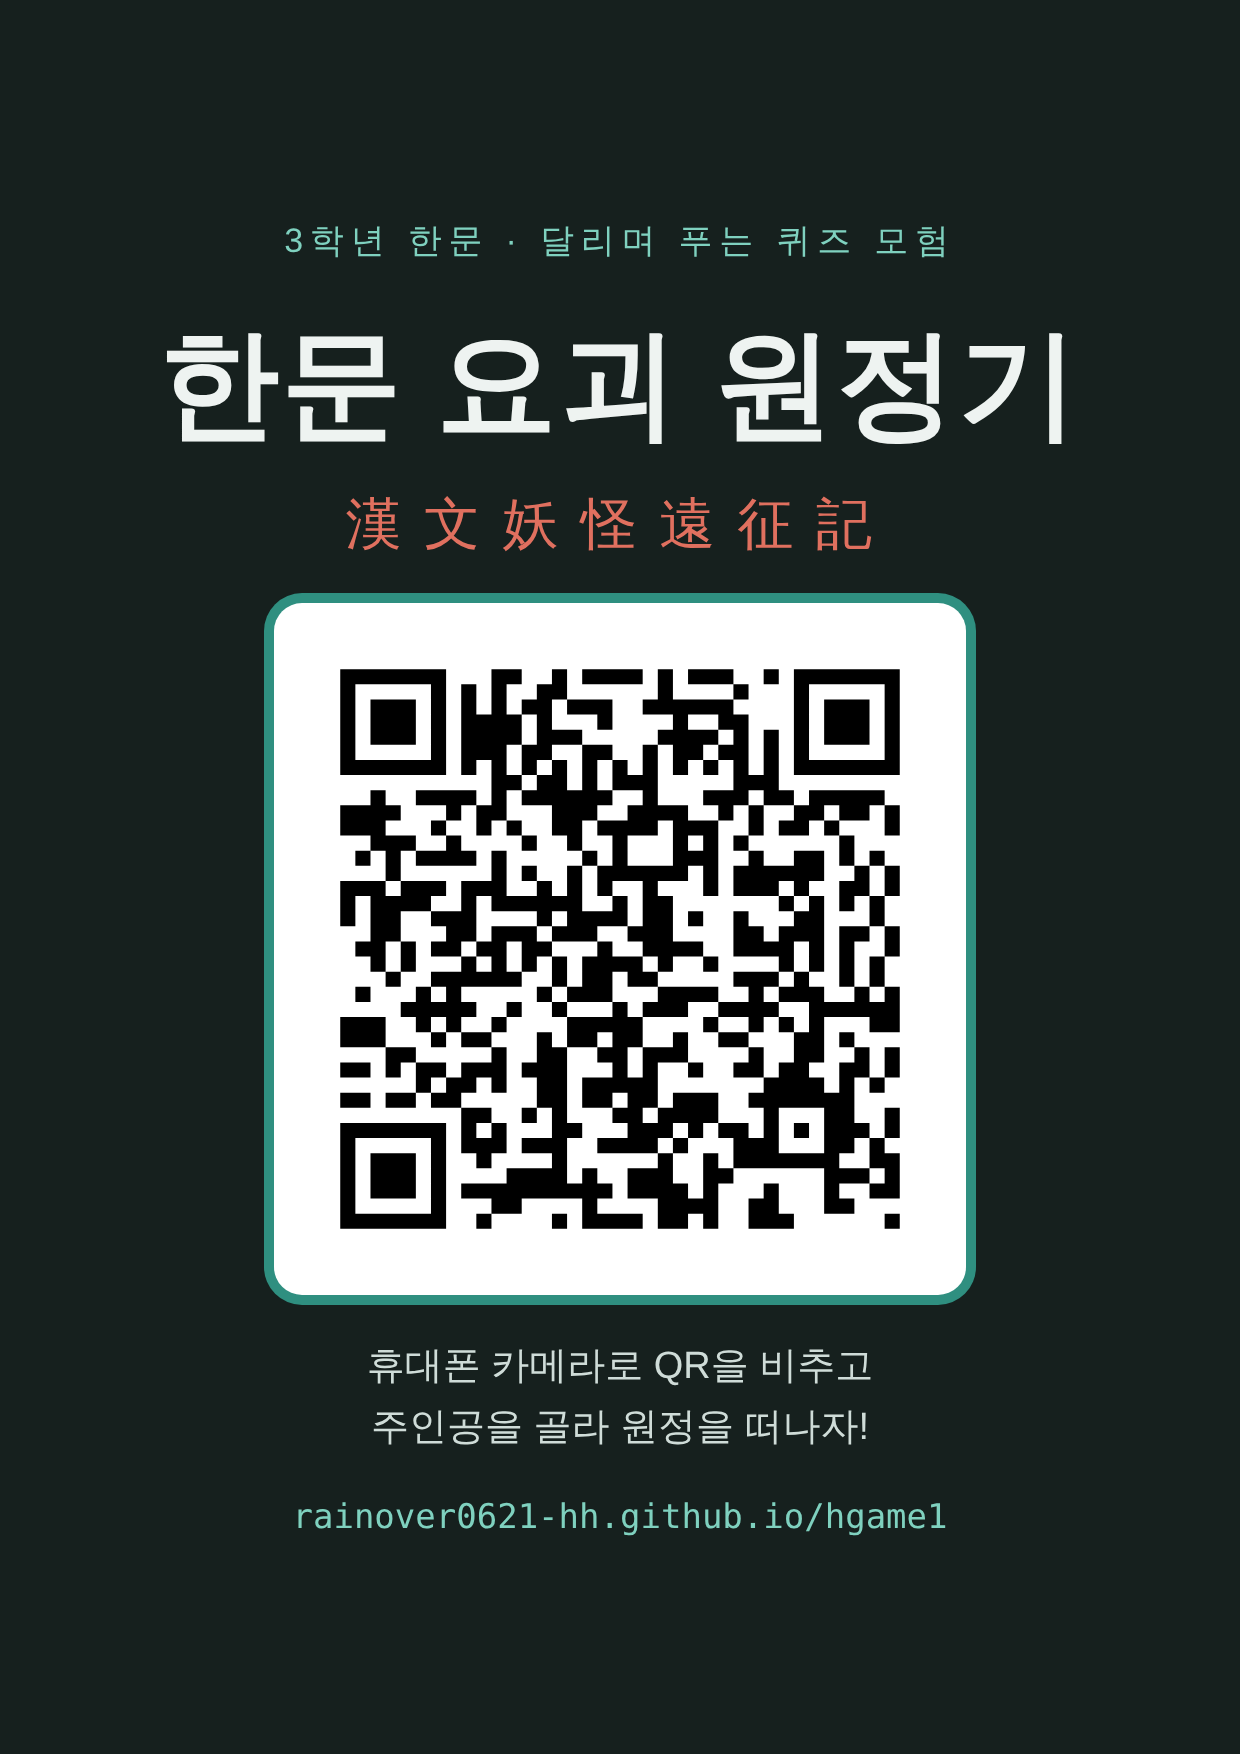
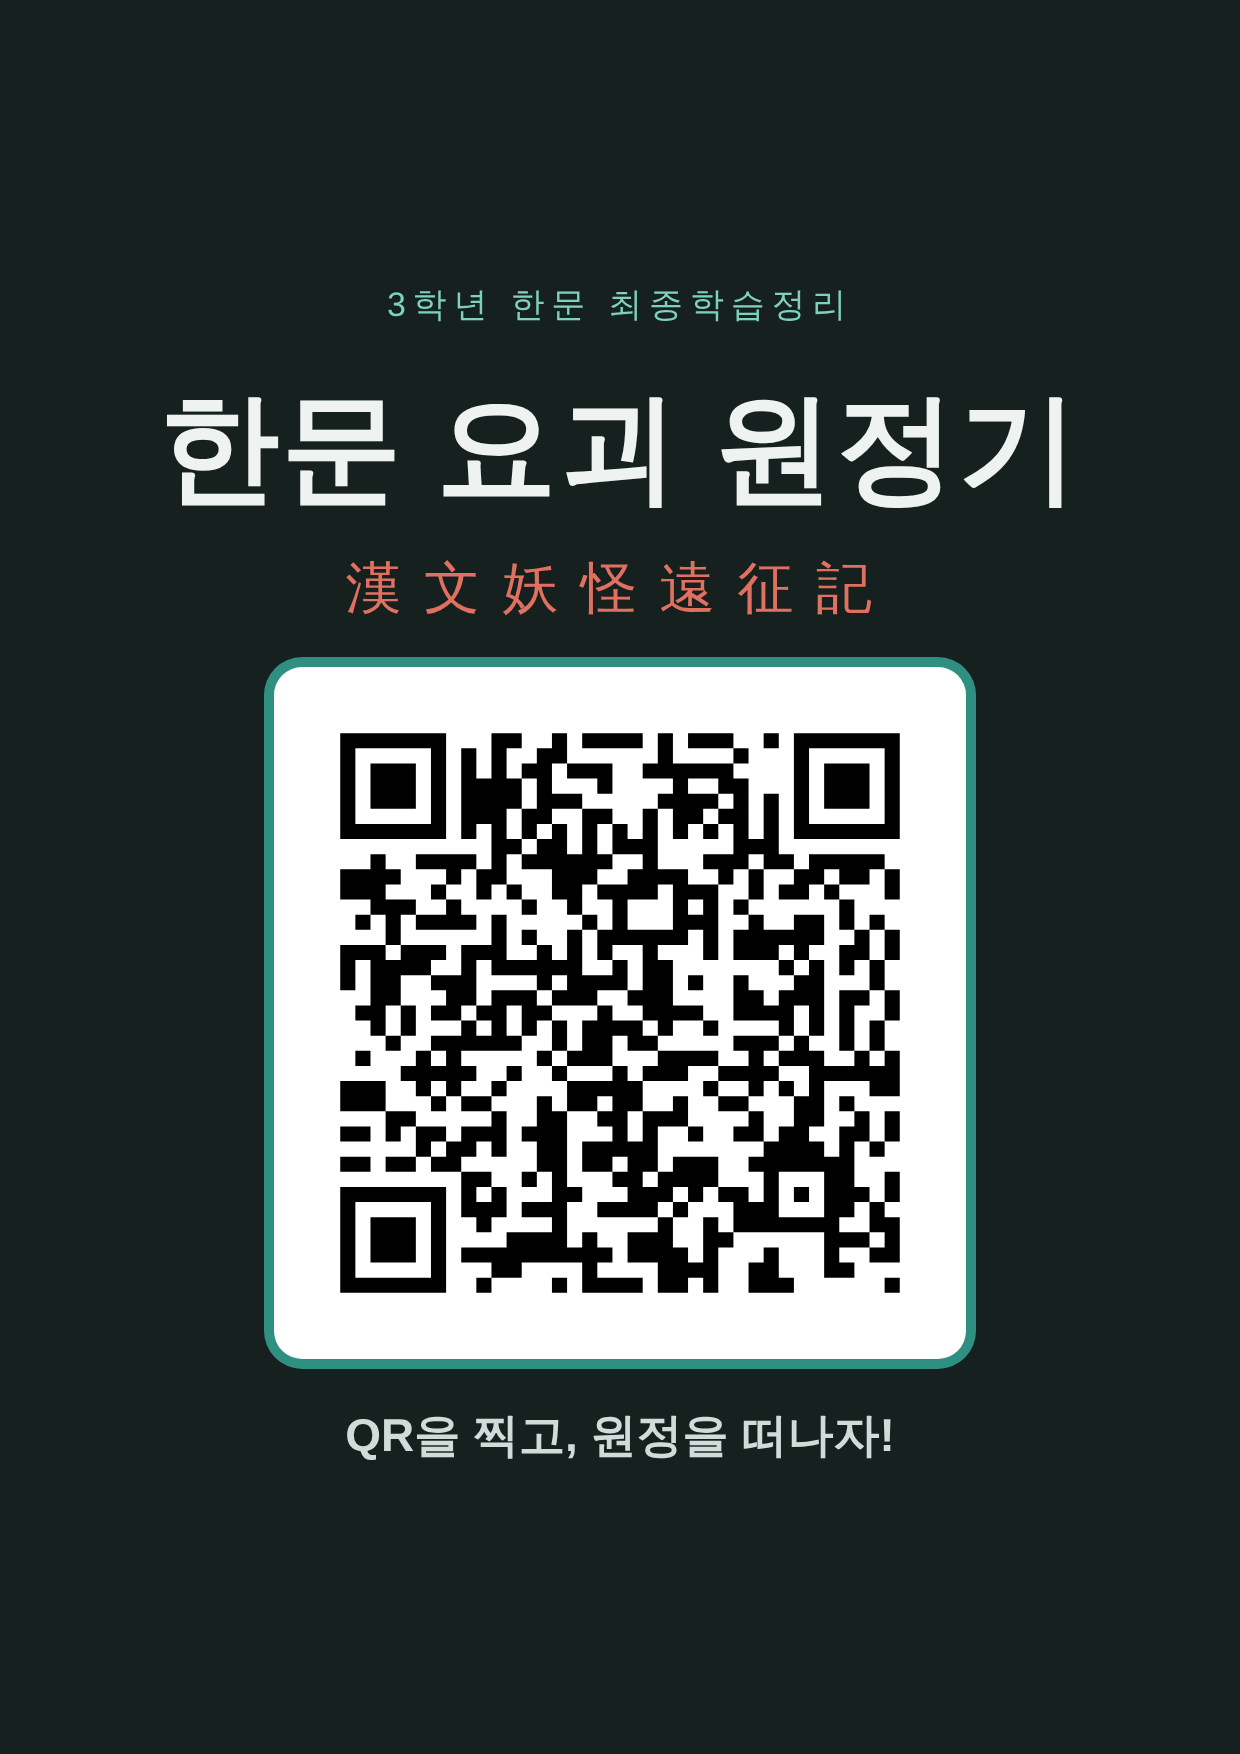
3~5장 움직이는 함정 4종 추가, 뒤 장일수록 빠르고 촘촘하게, 초대장 문구 수정
- 3 · 4장: 번갈아 솟는 가시 바닥, 떨어지는 돌
- 5장: 솟아오르는 물줄기, 떨어지는 번개(맞은 자리에 불이 남음)
- 4장으로 갈수록 가시 주기가 빨라지고 돌이 더 가까이 떨어짐
- 3~5장 장애물 수 늘리고 간격 줄임, 달리기 속도 280 → 290/302/315
- 초대 QR: '3학년 한문 최종학습정리', 'QR을 찍고, 원정을 떠나자!', 주소 줄 삭제

Claude-Session: https://claude.ai/code/session_01MdgxqtyT7LbELnvqM4oduf

diff --git a/index.html b/index.html
@@ -796,7 +796,17 @@ const OBS={
  boulder:{name:'굴러오는 바위',dmg:10,w:28,h:50,vx:-200},
  fireball:{name:'불덩이',dmg:9,w:22,air:true,vx:-240},
  wave:{name:'파도',dmg:7,w:40,h:38,vx:-110},
+ /* 움직이는 함정(dyn): 높이가 시간에 따라 바뀌고, 0일 때는 지나가도 안전하다 */
+ spikefloor:{name:'가시 바닥',dmg:9,w:40,h:40,dyn:'cycle'},
+ fallrock:{name:'떨어지는 돌',dmg:10,w:28,h:42,dyn:'fall'},
+ geyser:{name:'물줄기',dmg:9,w:28,h:128,dyn:'geyser'},
+ bolt:{name:'번개',dmg:11,w:36,h:26,dyn:'bolt'},
 };
+/* 장별 함정 속도 (3장 → 5장으로 갈수록 빠르고 촉박하게). 0 · 1장 칸은 쓰지 않는다 */
+const HAZ=[null,null,
+ {cycle:1.45,fall:[300,380]},
+ {cycle:1.1,fall:[235,310]},
+ {cycle:1,fall:[220,290],geyser:1.55,bolt:[260,340]}];
 /* 요괴 도감: lv는 문제 난이도(4는 보스) */
 const MOBS={
  wasp:{name:'독침벌',han:'毒蜂',lv:1},plant:{name:'식인초',han:'食人草',lv:2},
@@ -811,9 +821,9 @@ const MOBS={
 const STAGES=[
  {id:'peach',num:'제1장',name:'도화 마을',han:'桃花村',enemies:[1,1,2,1],mobs:['wasp','plant'],boss:'spider',obs:['rock','puddle','thorns','web','crow']},
  {id:'bamboo',num:'제2장',name:'월하 대숲',han:'月下竹林',enemies:[2,1,2,2],mobs:['boar','fox'],boss:'wolf',obs:['spikes','log','crow','trap','thorns']},
- {id:'valley',num:'제3장',name:'귀곡',han:'鬼谷',enemies:[2,3,1,2,3],mobs:['wisp','shadow','jiangshi'],boss:'ghost',obs:['tomb','puddle','web','boulder','crow']},
- {id:'fire',num:'제4장',name:'화염 요마성',han:'火焰妖魔城',enemies:[3,2,3,2,3],mobs:['goblin','golem','bulgasari'],boss:'demon',obs:['fireball','boulder','spikes','trap','rock']},
- {id:'storm',num:'제5장',name:'창해 용궁',han:'滄海龍宮',enemies:[3,2,3,3,3],mobs:['imugi','firebird'],boss:'dragon',obs:['wave','crow','boulder','puddle','fireball']},
+ {id:'valley',num:'제3장',name:'귀곡',han:'鬼谷',enemies:[2,3,1,2,3],mobs:['wisp','shadow','jiangshi'],boss:'ghost',obs:['tomb','puddle','web','boulder','crow','spikefloor','spikefloor','fallrock','fallrock']},
+ {id:'fire',num:'제4장',name:'화염 요마성',han:'火焰妖魔城',enemies:[3,2,3,2,3],mobs:['goblin','golem','bulgasari'],boss:'demon',obs:['fireball','boulder','spikes','trap','rock','spikefloor','spikefloor','fallrock','fallrock']},
+ {id:'storm',num:'제5장',name:'창해 용궁',han:'滄海龍宮',enemies:[3,2,3,3,3],mobs:['imugi','firebird'],boss:'dragon',obs:['wave','crow','boulder','puddle','fireball','geyser','geyser','bolt','bolt']},
 ];
 /* 보스: 문제를 하나 낼 때마다 스펠카드 탄막 한 장. pat은 탄막 종류, mouth는 탄이 나오는 위치 */
 const BOSSES={
@@ -894,7 +904,7 @@ function pickItem(){
 }
 function pickMob(S,l){const c=S.mobs.filter(m=>MOBS[m].lv===l);const p=c.length?c:S.mobs;return p[Math.floor(rand()*p.length)]}
 /* 스테이지별 장애물 난이도: n 개수 범위, sp 장애물 간격, combo 한 번에 넘는 연속 장애물 확률 */
-const DIFF=[{n:[6,7],sp:330,combo:0},{n:[7,8],sp:310,combo:.18},{n:[7,9],sp:300,combo:.28},{n:[8,10],sp:290,combo:.36},{n:[9,10],sp:280,combo:.45}];
+const DIFF=[{n:[6,7],sp:330,combo:0},{n:[7,8],sp:310,combo:.18},{n:[8,10],sp:282,combo:.32},{n:[9,11],sp:264,combo:.42},{n:[10,12],sp:250,combo:.5}];
 const COMBO_OK=['rock','trap','spikes','thorns','puddle'],TRIPLE_OK=['rock','trap'];
 /* 움직이는 장애물은 화면에 들어온 뒤 움직이므로, 계획한 자리에서 만나도록 그만큼 앞에 둔다 */
 function placeObs(t,xm){const v=Math.abs(OBS[t].vx||0);addObs(t,v?xm+v*(W+40-PX)/(280+v):xm)}
@@ -909,6 +919,10 @@ function planGap(S,i,x0){
    const three=i>=3&&rand()<.3,pool=three?TRIPLE_OK:COMBO_OK,cnt=three?3:2,gapc=three?52:70;
    for(let j=0;j<cnt;j++){const tj=j===0&&pool.includes(t)?t:pool[Math.floor(rand()*pool.length)];placeObs(tj,x+j*gapc)}
    x+=gapc*(cnt-1)+40;
+  }else if(t==='spikefloor'){
+   const cnt=i>=3&&rand()<.45?3:2,ph=rand();
+   for(let j=0;j<cnt;j++)addObs(t,x+j*84,(ph+j*.5)%1);
+   x+=84*(cnt-1)+30;
   }else placeObs(t,x);
   prevAir=air;
   if(k===itemAt&&rand()<ITEM_RATE){const ia=rand()<.5;G.ents.push({kind:'item',type:pickItem(),x:x+D.sp*.5,y:ia?GROUND-165:GROUND-28,air:ia})}
@@ -916,7 +930,9 @@ function planGap(S,i,x0){
  }
  return x+360-x0;
 }
-function addObs(type,x){const O=OBS[type];G.ents.push({kind:'obs',type,x,vx:O.vx||0,rot:0,seed:rand()*9})}
+function addObs(type,x,phase){const O=OBS[type],H=HAZ[G.stage]||HAZ[4],e={kind:'obs',type,x,vx:O.vx||0,rot:0,seed:rand()*9};
+ if(O.dyn){e.phase=phase??rand();e.hNow=0;e.t=-1;const tr=H[O.dyn==='bolt'?'bolt':'fall'];if(tr)e.trig=tr[0]+rand()*(tr[1]-tr[0])}
+ G.ents.push(e);return e}
 function buildStage(i,x0){
  const S=STAGES[i];let x=x0;
  S.enemies.forEach((lvl,k)=>{
@@ -1055,16 +1071,34 @@ function interact(){
    const O=OBS[e.type];if(Math.abs(e.x-px)>=O.w)continue;
    let hit;
    if(O.air){const top=P.y-heroH(),cy=-98;hit=top<cy+14&&P.y>cy-14}
+   else if(O.dyn)hit=e.strike||(e.hNow>0&&P.y>-e.hNow+4);
    else hit=P.y>-O.h+4;
    if(hit){e.used=true;hitObs(e,O);if(G.hp<=0){gameOver();return}}
   }
+ }
+}
+/* 움직이는 함정 갱신: hNow가 지금 부딪히는 높이(0이면 안전) */
+function updHaz(e,dt,moving){
+ const O=OBS[e.type],H=HAZ[G.stage]||HAZ[4],px=G.cam+PX,sx=e.x-G.cam;
+ if(O.dyn==='cycle'){const ph=(G.t/H.cycle+e.phase)%1;e.ph=ph;e.hNow=ph<.5?O.h*Math.min(1,ph/.06):0}
+ else if(O.dyn==='geyser'){const ph=(G.t/(H.geyser||1.6)+e.phase)%1;e.ph=ph;e.hNow=ph>=.68?O.h*Math.min(1,(ph-.68)/.05):0;
+  if(ph>=.68&&sx>-40&&sx<W+40&&rand()<.5)G.parts.push({x:sx+(rand()-.5)*30,y:GROUND-e.hNow*rand(),vx:(rand()-.5)*160,vy:-60-rand()*120,r:2+rand()*3,life:.5,col:'rgba(200,235,255,.8)'})}
+ else if(O.dyn==='fall'){
+  if(e.t<0&&e.x-px<e.trig)e.t=0;
+  if(e.t>=0&&moving){const was=e.t;e.t+=dt;if(was<.42&&e.t>=.42){G.shake=Math.max(G.shake,.18);burst(sx,GROUND-6,'#8a8070',12,.6);sfx('hit')}}
+  e.hNow=e.t>=.42?O.h:0;
+ }else if(O.dyn==='bolt'){
+  if(e.t<0&&e.x-px<e.trig)e.t=0;
+  if(e.t>=0&&moving){const was=e.t;e.t+=dt;if(was<.45&&e.t>=.45){G.flash=Math.max(G.flash,.35);burst(sx,GROUND-10,'#fff3a0',16,.7);tone(120,.25,'sawtooth',.08,60)}}
+  e.strike=e.t>=.45&&e.t<.6;e.hNow=e.t>=.45&&e.t<2.1?O.h:0;
  }
 }
 const josa=(w,a,b)=>(w.charCodeAt(w.length-1)-0xAC00)%28?a:b;
 function hitObs(e,O){
  const C=CH(),n=Math.max(1,Math.round(O.dmg*C.obsMul*G.mod.dmg));
  damage(n,false);e.fling=.8;
- if(C.obsMul<1){sfx('smash');floater(`${O.name}${josa(O.name,'을','를')} 부쉈다`,'#f1ebdc',PX,GROUND-200,18);burst(e.x-G.cam,GROUND-20,'#6b6670',12)}
+ if(O.dyn&&e.type!=='fallrock'){sfx('hit');floater(`${O.name}에 당했다`,'#f1ebdc',PX,GROUND-200,18)}
+ else if(C.obsMul<1){sfx('smash');floater(`${O.name}${josa(O.name,'을','를')} 부쉈다`,'#f1ebdc',PX,GROUND-200,18);burst(e.x-G.cam,GROUND-20,'#6b6670',12)}
  else{sfx('hit');floater(`${O.name}에 부딪혔다`,'#f1ebdc',PX,GROUND-200,18)}
 }
 function collect(e){
@@ -1489,7 +1523,7 @@ function hud(){
 /* ───────── 갱신 ───────── */
 function update(dt){
  G.t+=dt;
- const target=G.state==='run'?280:G.state==='title'?200:G.state==='win'?110:0;
+ const target=G.state==='run'?280+[0,0,10,22,35][G.stage]:G.state==='title'?200:G.state==='win'?110:0;
  G.speed+=(target-G.speed)*Math.min(1,dt*(target>G.speed?2.5:8));
  if(G.speed<1&&target===0)G.speed=0;
  G.cam+=G.speed*dt;P.phase+=dt*G.speed/30;
@@ -1516,6 +1550,7 @@ function update(dt){
    if(moving&&e.vx&&!e.fling&&e.x-G.cam<W+40)e.x+=e.vx*dt;
    if((e.type==='log'||e.type==='boulder')&&moving)e.rot-=dt*(G.speed-e.vx)/24;
    if(e.fling>0){e.fling-=dt;if(e.fling<=0)e.gone=true}
+   if(OBS[e.type].dyn&&!(e.fling>0))updHaz(e,dt,moving);
   }
  }
  if(G.state==='run')interact();
@@ -1837,6 +1872,48 @@ function peachTree(c,x,y,s,t){
  c.lineWidth=5*s;c.beginPath();c.moveTo(x,y-60*s);c.quadraticCurveTo(x+30*s,y-80*s,x+44*s,y-104*s);c.moveTo(x-2*s,y-76*s);c.quadraticCurveTo(x-30*s,y-90*s,x-40*s,y-110*s);c.stroke();
  for(const[dx,dy,r]of[[-36,-116,30],[0,-130,34],[38,-112,30],[-12,-100,26],[20,-140,24]]){c.fillStyle=sph(c,x+dx*s,y+dy*s,r*s,'#f2a6bd');ell(c,x+dx*s,y+dy*s,r*s,r*s*.7);c.fill()}
  c.fillStyle='#fff0f4';for(let i=0;i<14;i++){ell(c,x+(hash(i+x)*90-45)*s,y+(-150+hash(i*2+x)*70)*s,2.2*s,2.2*s);c.fill()}
+}
+/* 움직이는 함정 그리기 */
+function drawHaz(e,sx){
+ const O=OBS[e.type],G0=GROUND;
+ if(e.type==='spikefloor'){
+  const hot=G.stage===3,ph=e.ph||0,warn=ph>.86,h=e.hNow>0?e.hNow:(warn?6+Math.sin(G.t*60)*2:0);
+  cx.fillStyle=lgrad(cx,0,G0-4,0,G0+8,[[0,hot?'#5a2a20':'#4a4650'],[1,hot?'#2a1410':'#24222a']]);rr(cx,sx-42,G0-4,84,12,3);cx.fill();
+  cx.fillStyle=hot?'rgba(255,120,40,.5)':'rgba(0,0,0,.45)';for(let k=0;k<5;k++)cx.fillRect(sx-34+k*16,G0-2,6,3);
+  if(h>0){for(let k=0;k<5;k++){const x=sx-32+k*16;
+   cx.fillStyle=lgrad(cx,x-6,0,x+6,0,hot?[[0,'#7a2a18'],[.5,'#ffb070'],[1,'#7a2a18']]:[[0,'#6a6a78'],[.5,'#e8e8f0'],[1,'#5a5a66']]);
+   poly(cx,[x-6,G0-2,x,G0-2-h,x+6,G0-2]);cx.fill()}}
+  if(warn&&e.hNow===0){cx.fillStyle='rgba(255,80,60,.35)';rr(cx,sx-42,G0-6,84,4,2);cx.fill()}
+ }else if(e.type==='fallrock'){
+  if(e.t<0)return;
+  const k=Math.min(1,e.t/.42),fy=e.t<.42?-(1-k*k)*520:0;
+  shadow(cx,sx,G0+4,8+28*k,.12+.25*k);
+  if(e.t<.42){cx.strokeStyle='rgba(255,230,200,.35)';cx.lineWidth=2;cx.beginPath();cx.moveTo(sx,G0+fy-60);cx.lineTo(sx,G0+fy-20);cx.stroke()}
+  cx.save();cx.translate(sx,G0+fy);cx.rotate(e.t<.42?e.t*8:0);
+  cx.fillStyle='#5a5560';poly(cx,[-28,4,-22,-26,-4,-42,18,-32,29,4]);cx.fill();
+  cx.fillStyle='#8c8794';poly(cx,[-22,-26,-4,-42,4,-20,-12,-10]);cx.fill();
+  cx.fillStyle='#46414e';poly(cx,[18,-32,29,4,8,4,10,-12]);cx.fill();
+  cx.strokeStyle='rgba(20,16,24,.6)';cx.lineWidth=1.5;cx.beginPath();cx.moveTo(-6,-36);cx.lineTo(0,-20);cx.lineTo(-8,-8);cx.stroke();
+  cx.restore();
+ }else if(e.type==='geyser'){
+  const ph=e.ph||0,warn=ph>.5&&ph<.68,h=e.hNow;
+  cx.fillStyle=sphere(cx,sx,G0,30,'#2a5a7a');ell(cx,sx,G0+2,32,8);cx.fill();
+  cx.fillStyle='rgba(160,220,255,.55)';ell(cx,sx,G0,22,4);cx.fill();
+  if(warn){for(let k=0;k<4;k++){const bx=sx+Math.sin(G.t*7+k*1.7)*14,by=G0-4-((G.t*60+k*9)%14);cx.fillStyle='rgba(220,245,255,.8)';ell(cx,bx,by,3,3);cx.fill()}}
+  if(h>0){const w=22+Math.sin(G.t*20)*2;
+   cx.fillStyle=lgrad(cx,sx-w,0,sx+w,0,[[0,'rgba(120,190,240,.55)'],[.5,'rgba(235,250,255,.95)'],[1,'rgba(120,190,240,.55)']]);
+   cx.beginPath();cx.moveTo(sx-w*.7,G0);cx.quadraticCurveTo(sx-w,G0-h*.6,sx-w*.6+Math.sin(G.t*18)*4,G0-h);cx.lineTo(sx+w*.6+Math.sin(G.t*16)*4,G0-h);cx.quadraticCurveTo(sx+w,G0-h*.6,sx+w*.7,G0);cx.closePath();cx.fill();
+   cx.fillStyle='rgba(255,255,255,.9)';for(let k=0;k<5;k++){ell(cx,sx+Math.sin(G.t*9+k)*w,G0-h+Math.cos(G.t*11+k*2)*6,5,4);cx.fill()}}
+ }else if(e.type==='bolt'){
+  if(e.t<0)return;
+  if(e.t<.45){const a=.3+.5*Math.abs(Math.sin(e.t*30));cx.strokeStyle=`rgba(255,240,140,${a})`;cx.lineWidth=3;ell(cx,sx,G0,36,9);cx.stroke();
+   cx.fillStyle=`rgba(255,240,140,${a*.25})`;cx.fillRect(sx-4,0,8,G0)}
+  else if(e.t<.6){cx.strokeStyle='#fffbe0';cx.lineWidth=6;cx.shadowColor='#ffe46a';cx.shadowBlur=24;cx.beginPath();let x=sx+20,y=-10;cx.moveTo(x,y);
+   for(let k=1;k<=8;k++){x=sx+(k%2?-16:14)*(1-k/9)+(hash(k+e.seed)-.5)*14;y=G0*k/8;cx.lineTo(x,y)}cx.stroke();cx.shadowBlur=0}
+  if(e.t>=.45&&e.t<2.1){cx.save();cx.globalAlpha*=Math.min(1,(2.1-e.t)/.3);
+   cx.fillStyle='rgba(40,20,10,.8)';ell(cx,sx,G0+2,36,7);cx.fill();
+   for(let k=0;k<4;k++)flame(cx,sx-24+k*16,G0+2,9+hash(k+e.seed)*4,G.t+k);cx.restore()}
+ }
 }
 function flame(c,x,y,s,t){const f=1+Math.sin(t*9)*.12+Math.sin(t*13)*.08;
  const g=c.createLinearGradient(0,y,0,y-s*2.2*f);g.addColorStop(0,'rgba(255,90,30,.95)');g.addColorStop(.5,'rgba(255,170,50,.9)');g.addColorStop(1,'rgba(255,240,150,0)');
@@ -2527,7 +2604,7 @@ function drawObs(e){
  cx.save();
  let fy=0;
  if(e.fling>0){const k=1-e.fling/.8;cx.globalAlpha=1-k;fy=-Math.sin(k*Math.PI)*60;cx.translate(sx+k*140,GROUND+fy);cx.rotate(k*4);cx.translate(-sx,-GROUND)}
- if(!O.air&&!(e.fling>0))shadow(cx,sx,GROUND+4,O.w+10,.3);
+ if(!O.air&&!O.dyn&&!(e.fling>0))shadow(cx,sx,GROUND+4,O.w+10,.3);
  if(O.air&&e.type!=='web'&&!(e.fling>0))shadow(cx,sx,GROUND+4,20,.16);
  if(e.type==='rock'){
   cx.fillStyle='#55505c';poly(cx,[sx-26,GROUND+4,sx-20,GROUND-22,sx-4,GROUND-36,sx+16,GROUND-28,sx+27,GROUND+4]);cx.fill();
@@ -2610,7 +2687,7 @@ function drawObs(e){
   cx.fillStyle='#ffd84a';ell(cx,sx-20,cy-7,2.4,2.4);cx.fill();cx.fillStyle='#000';ell(cx,sx-20.5,cy-7,1.1,1.1);cx.fill();
   cx.fillStyle='#141218';cx.beginPath();cx.moveTo(sx-2,cy);cx.quadraticCurveTo(sx-16,cy+26*fl,sx-30,cy+28*fl);cx.quadraticCurveTo(sx-18,cy+8*fl,sx-6,cy+4);cx.closePath();cx.fill();
   if(G.state==='run'&&rand()<.15)G.parts.push({x:sx+20,y:cy,vx:30,vy:20,r:2+rand()*2,life:.5,col:'#141218'});
- }
+ }else if(O.dyn)drawHaz(e,sx);
  cx.restore();
  // 1장에서는 피하는 방법을 위에 적어 준다
  if(G.stage===0&&!e.used&&sx>PX&&sx<W-40){
